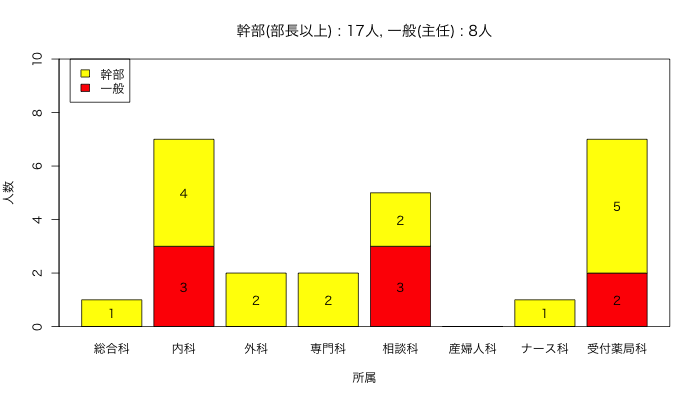
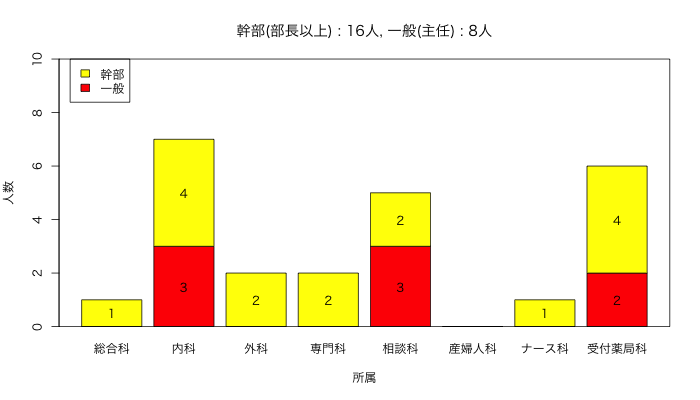
更新

Changed region(s): [[0.84, 0.33, 0.93, 0.42], [0.87, 0.54, 0.9, 0.57], [0.51, 0.06, 0.54, 0.09]]

diff --git a/ReadMe.md b/ReadMe.md
@@ -25,7 +25,6 @@
 |医院長|専門科|じーじ||
 |医院長|相談科|あめ||
 |副医院長|受付薬局科|Sherry||
-|副医院長|受付薬局科|にこ||
 |副医院長補佐|ナース科|さきりん||
 |部長|内科|Fx||
 |部長|内科|くぅ||
@@ -51,13 +50,13 @@
 |:--|:---:|:---:|:---:|:---:|:---:|:---:|:---:|:---:|:---:|
 |オーナー|1|0|0|0|0|0|0|0|1|
 |医院長|0|0|1|2|1|0|0|0|4|
-|副医院長|0|0|0|0|0|0|0|2|2|
+|副医院長|0|0|0|0|0|0|0|1|1|
 |副医院長補佐|0|0|0|0|0|0|1|0|1|
 |医局長|0|0|0|0|0|0|0|0|0|
 |事務局長|0|0|0|0|0|0|0|0|0|
 |部長|0|4|1|0|1|0|0|3|9|
 |主任|0|3|0|0|3|0|0|2|8|
-|合計|1|7|2|2|5|0|1|7|25|
+|合計|1|7|2|2|5|0|1|6|24|
 
 <img src="https://github.com/fairy00000/organization/blob/master/image/Member.png">
 
